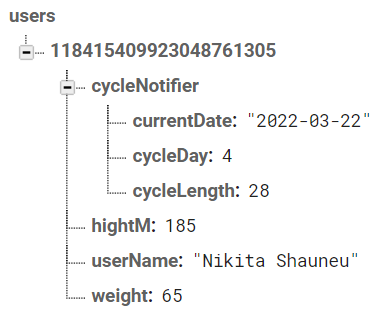
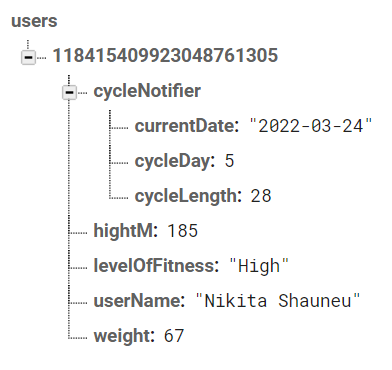
add samples and load them to DB

diff --git a/lib/user/user.dart b/lib/user/user.dart
@@ -30,6 +30,7 @@ class AppUser {
         userInformation = UserInformation.fromMap({
           'weight': 0,
           'hightM': 0,
+          'levelOfFitness': '',
           'userName': '',
           'cycleNotifier': {
             'cycleDay': 0,
@@ -41,6 +42,7 @@ class AppUser {
           'weight': 0,
           'hightM': 0,
           'userName': '',
+          'levelOfFitness': '',
           'cycleNotifier': {
             'cycleDay': 0,
             'cycleLength': 0,
@@ -63,6 +65,11 @@ class AppUser {
     await DatabaseProvider.setInfo(userID!, infoLine);
     infoLine.forEach((key, value) {
       switch (key) {
+        case 'levelOfFitness':
+          {
+            userInformation!.setLevelOfFitness(value, userID!);
+            break;
+          }
         case 'userName':
           {
             userInformation!.setName(value, userID!);
@@ -105,7 +112,7 @@ class AppUser {
         return List<WorkoutTheme>.from(['Yoga', 'Integrated', 'Stretching']);
       }
       case CyclePhase.FOLLICULAR_PHASE: {
-        return List<WorkoutTheme>.from(['Strength', 'Speed-Strength', 'Endurance']);
+        return List<WorkoutTheme>.from(['Strength', 'Endurance']);
       }
       case CyclePhase.FERTILE_WINDOW: {
         return List<WorkoutTheme>.from(['Cardio', 'Stretching', 'Pilates']);
@@ -117,21 +124,20 @@ class AppUser {
     }
 
     /// Returns a description of the current cycle phase.
-    // TODO: fill it with beautiful text
     String returnDescription() {
       final cyclePhase = userInformation!.cycleNotifier.returnCyclePhase();
       switch (cyclePhase) {
         case CyclePhase.MENSTRUATION: {
-          return '';
+          return '''Stage 1 is the menstrual phase, it starts on day 1 of the cycle and can last anywhere up to around 8 days. This is when the lining of the uterus is shed through the vagina. Around the time of your period, day 1 of the menstrual cycle, lower intensity exercise is supported as oestrogen levels are at their lowest. Doing forms of light cardio such as jogging, cycling and swimming could be favourable around this time as well as activities like yoga. ''';
         }
         case CyclePhase.FOLLICULAR_PHASE: {
-          return '';
+          return '''Stage 2 also starts on day 1 of the cycle and occurs in the background until about day 14. A hormone is released which signals one of the eggs in the ovary to grow into a sac-like follicle. Once the follicle has grown big enough, it signals to the uterus to start growing its lining again. After day 1 of the menstrual cycle, the follicular phase brings rise to the hormone levels again in anticipation for ovulation. Throughout this time, strength training has been shown to result in its greater increase in muscle strength. This makes it a great time of the month to be hitting the gym with some strength and high-intensity training sessions. Throughout this stage, there are also lower rates of tendon collagen synthesis which means the risk of musculoskeletal tissue injuries becomes higher. In fact, women have been found to be 3-6 times more likely than men to suffer musculoskeletal injuries when their oestrogen levels are elevated. The increasing levels of oestrogen also increase joint elasticity throughout this time and risks of ACL injuries have been noted as higher. With this in mind, longer warm-ups and less stretching may be favoured.''';
         }
         case CyclePhase.FERTILE_WINDOW: {
-          return '';
+          return '''On day 14, the egg is released from the ovary and swept into the fallopian tubes which connect the ovary to the uterus. Around the time of ovulation, oestrogen levels are peaking which may favour the delayed onset of muscle soreness (DOMS) meaning women recover quicker and can return to exercise with less muscle damage. At day 14, Oestrogen peaks and rise of a hormone called luteinizing hormone causes the release of the egg. At this time, energy levels are at the highest and it’s a great time to push yourself to gain some additional endurance. This could make for a great time to shoot for some personal records. Additionally, as levels of the progesterone hormone are low your pain tolerance may come up a level.''';
         }
         case CyclePhase.LUTERAL_PHASE: {
-          return '';
+          return '''The egg stays in the fallopian tubes for 24 hours, it will either be impregnated by a sperm cell or disintegrate. The Luteal phase goes from day 15-18 to day 28-35 by which time the lining will shed again. In the final weeks of the menstrual cycle as progesterone levels increase the core body temperature will also rise. This can make working out in the heat feel slightly harder and a reduction in the sweat response is often observed. Throughout the luteal phase you may find it harder to reach goals you were hitting earlier in the month, for some there is an increase in breathing rate and depth as well as heart rates. Some individuals may also find their weight increases slightly as the body holds onto water and energy is stored. That run around the block might just end up feeling a whole lot harder than it normally would.''';
         }
       }
     }

diff --git a/lib/workout/workout_theme.dart b/lib/workout/workout_theme.dart
@@ -1,6 +1,8 @@
 import 'package:user2/providers/workout_database_provider.dart';
 import 'package:user2/workout/single_workout.dart';
 
+import '../user/custom_error.dart';
+
 class WorkoutTheme {
   String theme;
 
@@ -13,5 +15,33 @@ class WorkoutTheme {
     return await WorkoutDatabaseProvider.returnWorkouts(theme);
   }
 
+  /// Returns a description about whole workout theme.
+  String? getDescription() {
+    switch (theme) {
+      case 'Cardio' : {
+        return '''Cardiovascular exercise, also known as cardio or aerobic exercise, is essential for good health. It gets your heart rate up, making you blood pump faster. This delivers more oxygen throughout your body, which keeps your heart and lungs healthy. Regular cardio exercise can also help you lose weight, get better sleep, and reduce your risk for chronic disease.''';
+      }
+      case 'Endurance' : {
+        return '''Building muscular endurance will enhance your overall health and wellness, says Simeone. But other benefits include good posture from your muscles being able to hold you up in place all day, increased metabolism, improved confidence, and fewer injuries. In terms of helping you work out, Shooter says muscular endurance “exercises train the body’s anaerobic edge and conditions the body to tolerate higher workloads.” In other words, you’ll be able to improve work output at certain intensities and perform for a longer period of time before getting tired. ''';
+      }
+      case 'IntegratedActivity' : {
+        return '''The second benefit of full body workouts is the increased muscular recovery rates. One main reason why some people do not get progress on their workout program is simply because they aren't recovering from session to session. Sixth on the list of advantages of full body workouts is the lower level of central nervous system stress on a week to week basis. Whenever you lift a weight, a stress is placed on the CNS. It doesn't matter if it's a biceps curl or a squat, your CNS will be stimulated. Finally, the last benefit to full body workouts is lower levels of boredom. The more often you repeat the same activity over and over again the greater the chances that you will find boredom settling in.''';
+      }
+      case 'Pilates' : {
+        return '''This set of Pilates exercises is designed to provide you with an at-home Pilates routine and help you build familiarity with Pilates mat exercises, whether you are new or experienced. These exercises develop the core strength, stability, and flexibility for which Pilates is famous. The muscular focus for each exercise is noted so you can target your routine. Please keep in mind that all Pilates exercises engage the core abdominal muscles. Feel free to choose any from the list for an ab workout. There are modification notes in the full instructions for each exercise.''';
+      }
+      case 'Strength' : {
+        return '''Increasing muscle strength can help make everyday movements less of a struggle, whether you're carrying a week’s worth of groceries up the stairs, placing a bulky object on an overhead shelf, or simply getting up off the floor. And building balanced strength—by making sure you’re focusing on all muscle groups—is important because it helps prevent weaker muscles from overcompensating, which can lead to injury. As you get older, maintaining muscle mass and strength becomes even more important for overall health. Resistance training can help older adults improve balance, build bone density, reduce the risk of falls, preserve independence, and even boost cognitive well-being, according to a 2019 position paper from the National Strength and Conditioning Association.''';
+      }
+      case 'Stretching' : {
+        return '''Stretches can be either static, where the person holds a still position, or dynamic, meaning that the person carries out the stretch while moving. A daily stretch routine may incorporate both static and dynamic stretches. Stretching can be mildly uncomfortable at first, but it should not be painful. An individual stretch will typically last 10–30 secondsTrusted Source. It can help to repeat a stretch routine, as it becomes easier to extend the muscles once they have properly loosened up.''';
+      }
+      case 'Yoga' : {
+        return '''Yoga offers physical and mental health benefits for people of all ages. And, if you’re going through an illness, recovering from surgery or living with a chronic condition, yoga can become an integral part of your treatment and potentially hasten healing.  A yoga therapist can work with patients and put together individualized plans that work together with their medical and surgical therapies. That way, yoga can support the healing process and help the person experience symptoms with more centeredness and less distress.''';
+      }
+      default : CustomErrorMessage('Undefined theme.');
+    }
+    return null;
+  }
 
 }

diff --git a/lib/user/user_information.dart b/lib/user/user_information.dart
@@ -7,6 +7,7 @@ class UserInformation {
   String userName;
   int weight;
   int hightM;
+  String levelOfFitness;
   CycleNotifier cycleNotifier;
 
   /// Constructing user's information for the start of using app.
@@ -15,6 +16,7 @@ class UserInformation {
     required this.weight,
     required this.hightM,
     required this.cycleNotifier,
+    required this.levelOfFitness,
   });
 
   /// Construct an information after query from DB.
@@ -23,13 +25,13 @@ class UserInformation {
         userName: map['userName'],
         weight: map['weight'],
         hightM: map['hightM'],
+        levelOfFitness: map['levelOfFitness'],
         cycleNotifier: CycleNotifier(
           cycleDay: map['cycleNotifier']['cycleDay'],
           cycleLength: map['cycleNotifier']['cycleLength'],
           currentDate:
               CycleNotifier.fromString(map['cycleNotifier']['currentDate']),
-        )
-    );
+        ));
     return userInfo;
   }
 
@@ -77,16 +79,26 @@ class UserInformation {
     });
   }
 
+  Future setLevelOfFitness(String myLevelOfFitness, String userID) async {
+    levelOfFitness = myLevelOfFitness;
+    if (levelOfFitness != 'Low' &&
+        levelOfFitness != 'Medium' &&
+        levelOfFitness != 'High') {
+      CustomErrorMessage('Undefined level of fitness!');
+    }
+    await DatabaseProvider.setInfo(userID, {'levelOfFitness': levelOfFitness});
+  }
+
   @override
   String toString() {
     return '''weight : $weight, \n 
               userName : $userName, \n 
               hightM : $hightM, \n 
+              levelOfFitness : $levelOfFitness, \n
               cycleNotifier : \n 
                   - 'cycleDay' : ${cycleNotifier.cycleDay}, \n 
                   - 'cycleLength' : ${cycleNotifier.cycleLength}, \n 
-                  - 'currentDate' : ${DateFormat('yyyy-MM-dd')
-                                      .format(cycleNotifier.currentDate)}
+                  - 'currentDate' : ${DateFormat('yyyy-MM-dd').format(cycleNotifier.currentDate)}
               ''';
   }
 }

diff --git a/lib/ui_for_testing/info_fill_page.dart b/lib/ui_for_testing/info_fill_page.dart
@@ -36,21 +36,24 @@ class InfoFillPageState extends State<InfoFillPage> {
                 controller: _TextEditingController(text: 'Edit name:'),
                 onChanged: (userName) async {
                   await appUser.updateInfo({'userName': userName});
-                  print('userName passes');
+                },
+              ),
+              TextField(
+                controller: _TextEditingController(text: 'Edit fitness level:'),
+                onChanged: (levelOfFitness) async {
+                  await appUser.updateInfo({'levelOfFitness': levelOfFitness});
                 },
               ),
               TextField(
                 controller: _TextEditingController(text: 'Edit weight:'),
                 onChanged: (weight) async {
                   await appUser.updateInfo({'weight': int.parse(weight)});
-                  print('weight passes');
                 },
               ),
               TextField(
                 controller: _TextEditingController(text: 'Edit hightM:'),
                 onChanged: (hightM) async {
                   await appUser.updateInfo({'hightM': int.parse(hightM)});
-                  print('height passes');
                 },
               ),
               TextField(
@@ -59,7 +62,6 @@ class InfoFillPageState extends State<InfoFillPage> {
                   await appUser.updateInfo({'cycleNotifier' :
                   {'cycleDay': int.parse(cycleDay)}
                   });
-                  print('cycleDay passes');
                 },
               ),
               TextField(
@@ -68,7 +70,6 @@ class InfoFillPageState extends State<InfoFillPage> {
                   await appUser.updateInfo({'cycleNotifier' :
                   {'cycleLength': int.parse(cycleLength)}
                   });
-                  print('cycleLength passes');
                 },
               ),
               ElevatedButton(

diff --git a/lib/workout/single_workout.dart b/lib/workout/single_workout.dart
@@ -3,15 +3,18 @@
 class SingleWorkout {
   late String pictureUrl;
   late String nameOfWorkout;
+  late String description;
+  late int complexity;
 
-  SingleWorkout({required this.pictureUrl, required this.nameOfWorkout});
+
+  SingleWorkout({required this.pictureUrl, required this.nameOfWorkout, required this.description, required this.complexity});
   factory SingleWorkout.fromMap(Map<dynamic, dynamic> info) {
     return SingleWorkout(nameOfWorkout: info.keys.first,
-        pictureUrl: info['pictureUrl']);
+        pictureUrl: info[info.keys.first]['pictureUrl'],
+        description: info[info.keys.first]['description'],
+        complexity: info[info.keys.first]['complexity'],
+    );
   }
 
-  Map<String, int> setActivity(String userID, String nameOfWorkout) {
-    // TODO: create an appropriate algorithm, which will access to DB and build appropriate params for user.
-    return {'numberOfSets' : 0, 'numberInSet' : 0};
-  }
+
 }

diff --git a/lib/ui_for_testing/sign_in_page.dart b/lib/ui_for_testing/sign_in_page.dart
@@ -32,8 +32,7 @@ class _SignInPageState extends State<SignInPage> {
               ElevatedButton(
                 onPressed: () async {
                   await appUser.signInWithGoogle();
-                  // TODO: add more constructive checkup!
-                  if (appUser.userInformation!.userName != '') {
+                  if (appUser.userInformation != null) {
                     Navigator.of(context).pushReplacement(
                       MaterialPageRoute(
                         builder: (context) => ActivatedApp(

diff --git a/lib/main.dart b/lib/main.dart
@@ -1,5 +1,8 @@
+import 'dart:convert';
+
 import 'package:firebase_core/firebase_core.dart';
 import 'package:flutter/material.dart';
+import 'package:flutter/services.dart';
 import 'package:user2/ui_for_testing/sign_in_page.dart';
 
 
@@ -21,3 +24,8 @@ class NonActivatedApp extends StatelessWidget {
   }
 }
 
+Future<Map<String, dynamic>> readSample(String file) async {
+  final String response = await rootBundle.loadString(file);
+  final data = await json.decode(response);
+  return data as Map<String, dynamic>;
+}

diff --git a/README.md b/README.md
@@ -19,6 +19,7 @@ AppUser:
         - String userName;
         - int weight;
         - int heightM;
+        - String levelOfFitness;
         - CycleNotifier cycleNotifier:
             - int cycleLength;
             - int cycleDay;
@@ -51,10 +52,13 @@ Correct ```infoLine``` must have one of following forms:
 - ```{"userName" : String}```;
 - ```{"weight" : int}```;
 - ```{"heightM" : int}```;
+- ```{"levelOfFitness" : "Low" || "High" || "Medium"}```;
 - ```{"cycleNotifier" : {"cycleDay" : int}}```;
 - ```{"cycleNotifier" : {"cycleLength" : int}}```.
 Other forms or unrealistic params result in a CustomErrorMessage (will be beautiful, but not now).
 ```appUser.updateInfo``` also can be used during session to change existing params if it is necessary.
+
+To get explanation about current cycle phase use method ```String retunDescription()```. 
 
 ### Appropriate workouts' provider:
 
@@ -65,7 +69,10 @@ For each theme there exists method ```Future<List<SingleWorkout>> returnListOfWo
 to access DB and get appropriate exercises.
 
 ### SingleWorkout class:
-SingleWorkout contains fields ```String nameOfWorkout``` and ```String pictureUrl```.
+SingleWorkout contains fields to describe current workout.
+
+![example](resourses/example_2.png)
+
 Maybe later we add more params, so there exists factory method ```SimpleWorkout.fromMap
 (Map<String, dynamic> info)```, where info has the following form:
 - ```{"name_of_workout" : { /* named params such as pictureUrl */}}```.
